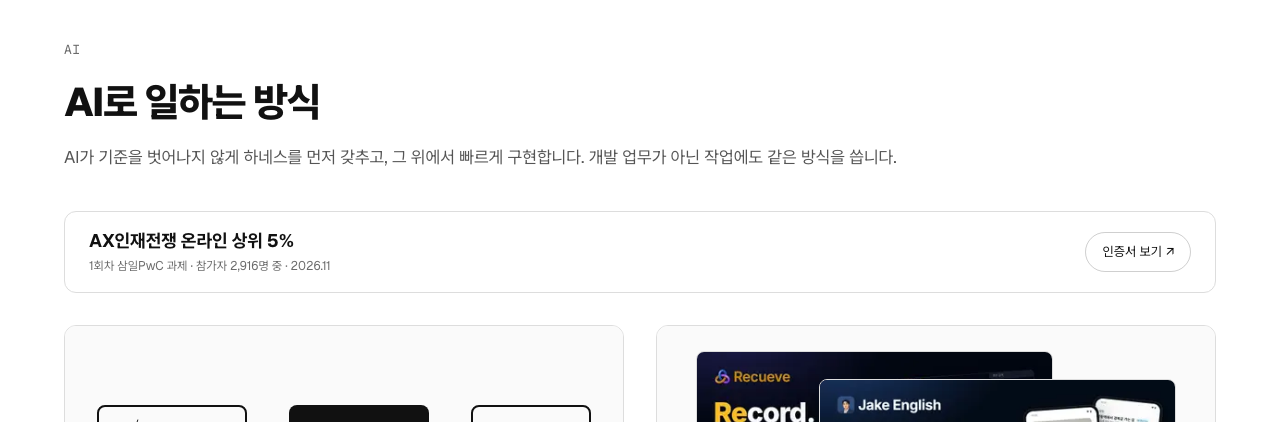
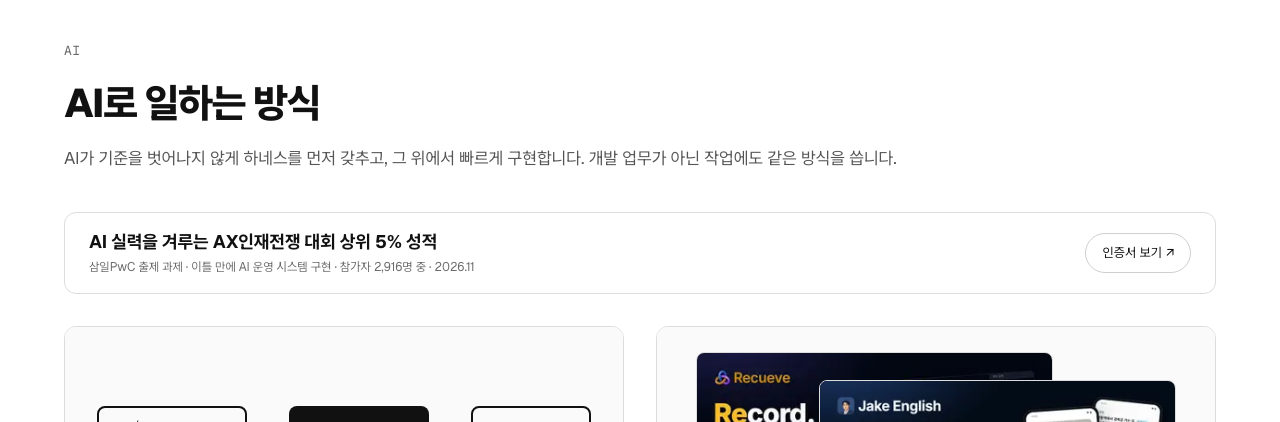
docs: record the new award band wording and title wrapping

diff --git a/docs/devlog/2026-11-23-home-ai-award.md b/docs/devlog/2026-11-23-home-ai-award.md
@@ -2,7 +2,7 @@
 
 ## 한 일
 
-- 홈 "AI로 일하는 방식" 섹션의 소개 문장과 카드 네 장 사이에 띠 한 줄을 넣었습니다. 왼쪽에 "AX인재전쟁 온라인 상위 5%"와 "1회차 삼일PwC 과제 · 참가자 2,916명 중 · 2026.11", 오른쪽에 공개 인증서 페이지로 가는 "인증서 보기" 버튼이 있습니다.
+- 홈 "AI로 일하는 방식" 섹션의 소개 문장과 카드 네 장 사이에 띠 한 줄을 넣었습니다. 왼쪽에 "AI 실력을 겨루는 AX인재전쟁 대회 상위 5% 성적"과 "삼일PwC 출제 과제 · 이틀 만에 AI 운영 시스템 구현 · 참가자 2,916명 중 · 2026.11", 오른쪽에 공개 인증서 페이지로 가는 "인증서 보기" 버튼이 있습니다.
 - AX인재전쟁 온라인은 기업이 낸 실제 과제로 AI 실력을 겨루는 대회입니다. 띠에는 결과 한 줄과 인증서 링크만 실었습니다.
 - 문구와 링크는 사이트 전용 글 `content/site/home.md`의 `sections.ai.award`에 두었습니다. 사실의 출처는 이력서의 대외활동 절과 공개 인증서 페이지입니다.
 - 이력서를 다시 가져와 `/resume`에 자기소개 한 문단과 인증서 안내 한 줄, 대외활동 절이 생겼고, 강의·특강이 수상 앞으로 왔습니다. `content/site/resume-page.md`의 절 목록을 원문 순서에 맞췄습니다.
@@ -21,11 +21,13 @@
 | 5 | 그 말을 본문 대외활동 절의 항목을 띠로 그리라는 뜻으로 읽고, 원문 한 줄을 두 줄로 나눠 그리는 플러그인을 만들었다 | 사용자가 바로잡았다. 본문 중간의 애매한 자리가 아니라 이력서 맨 위에 NEW 뱃지를 달아 구별되게 보여 달라는 뜻이었다 | 플러그인을 되돌리고, 머리와 목차 사이에 홈과 같은 띠와 NEW 뱃지 |
 | 6 | 뱃지는 새 색 없이 `fg` 바탕에 `bg` 글자, 고정폭으로 하자. 인쇄에서는 띠 전체를 빼자. 같은 사실이 본문에 글자로 있다 | 구현하며 정함 | 흑백과 강조색 하나 원칙 그대로 |
 | 7 | 뱃지 색을 비교판으로 보여 줌: 글자색 바탕, 초록(강조색), 금색, 주황. 시안마다 라이트와 다크의 대비를 재서 적고, 새 색이 없는 초록을 추천 | 사용자가 초록을 골랐다 | `accent` 바탕에 `on-accent` 글자. 강조색을 쓰는 곳 목록에 뱃지를 더함 |
+| 8 | (main 세션, 배포 뒤) 첫 줄 "AX인재전쟁 온라인 상위 5%"를 고칠 문구로 대회를 밝히는 안, 한 일을 더하는 안, 문장으로 쓴 안을 보여 줌 | 사용자가 첫 줄만으로는 대회에 참가해 상위 5%에 든 것인지 알기 어렵다고 지적했다. 두 안을 섞되 문장 대신 개조식으로, "AI 실력을 겨루는" 표현과 "상위 5% 성적"을 골랐다 | 첫 줄 "AI 실력을 겨루는 AX인재전쟁 대회 상위 5% 성적", 둘째 줄에 출제 기업, 한 일, 참가자 수, 시기 |
 
 ## 바로잡은 것
 
 - 사용자의 "홈처럼 띠로"를 전하는 과정에서 자리를 잘못 읽어 본문 절에 띠를 구현했다가 되돌렸습니다. 화면 자리를 정하는 말은 페이지의 어느 부분인지(머리, 목차, 본문의 어느 절)를 되물어 확인한 뒤 구현합니다.
 - 뱃지 색 시험이 개발 서버에서는 통과하고 빌드에서는 실패했습니다. 빌드한 CSS가 토큰 값을 `#fff`로 줄여 쓰는데, 시험이 토큰 글자를 여섯 자리로 읽었습니다. 토큰을 입힌 요소의 색과 견주도록 고쳤습니다.
+- 문구를 길게 바꾸자 375에서 제목이 꺾이며 `NEW` 뱃지가 제목 위 줄로 올라갔고, 홈 제목은 "상위 / 5% 성적"으로 끊겼습니다. "뱃지는 제목 왼쪽, 버튼은 제목보다 오른쪽"을 상자 좌표로 본 시험 두 건도 실패했습니다. 뱃지를 글줄 안에 두어 첫 줄 앞에 남기고 제목에 `text-balance`를 줬습니다. 시험은 제목의 첫 줄 조각과 띠의 폭을 기준으로 고쳤습니다.
 - 띠를 넣은 직후 개발 서버가 옛 CSS를 줘서 띠가 테두리 없이 보였습니다. 서빙된 CSS에 새 클래스가 없는 것을 확인하고 `.next/dev`를 지워 다시 띄웠습니다.
 
 ## 검증

diff --git a/docs/02-ia.md b/docs/02-ia.md
@@ -82,7 +82,7 @@
 | 메시지 | AI가 기준을 벗어나지 않게 하네스를 먼저 갖추고, 그 위에서 빠르게 구현합니다. 개발 업무가 아닌 작업에도 같은 방식을 씁니다 |
 | 사실과 출처 | `content/site/ai/`의 사이트 전용 글. "이 사이트" 카드는 이 저장소 |
 | 구성 | 머리 `AI` · 제목 "AI로 일하는 방식" · 소개(메시지와 같음) · 대회 결과 띠 한 줄 · 카드 네 장. 카드마다 버튼은 "자세히 보기"(`/ai#slug`) 하나입니다 |
-| 띠 (2026-11-23) | 소개 문장 아래, 카드 네 장 위에 테두리 띠 하나를 둡니다. 왼쪽 첫 줄 "AX인재전쟁 온라인 상위 5%", 둘째 줄 "1회차 삼일PwC 과제 · 참가자 2,916명 중 · 2026.11", 오른쪽에 테두리 버튼 "인증서 보기"(새 창)입니다. 링크는 로그인 없이 열리는 공개 인증서 페이지 `https://axacademy.ai/axwar/cert/dxN6SEBhEGU6n1JU1brdfPa0`입니다. 기업이 낸 실제 과제로 AI 실력을 겨루는 대회의 결과이고, 사실의 출처는 이력서의 대외활동 절과 이 인증서 페이지입니다. 문구와 링크는 `content/site/home.md`의 `sections.ai.award`에 있습니다. 홈에만 두고 `/ai`에는 싣지 않습니다. 값은 [03-design.md](03-design.md#홈-ai-섹션-띠에서-정한-값)에 있습니다 |
+| 띠 (2026-11-23) | 소개 문장 아래, 카드 네 장 위에 테두리 띠 하나를 둡니다. 왼쪽 첫 줄 "AI 실력을 겨루는 AX인재전쟁 대회 상위 5% 성적", 둘째 줄 "삼일PwC 출제 과제 · 이틀 만에 AI 운영 시스템 구현 · 참가자 2,916명 중 · 2026.11", 오른쪽에 테두리 버튼 "인증서 보기"(새 창)입니다. 링크는 로그인 없이 열리는 공개 인증서 페이지 `https://axacademy.ai/axwar/cert/dxN6SEBhEGU6n1JU1brdfPa0`입니다. 기업이 낸 실제 과제로 AI 실력을 겨루는 대회의 결과이고, 사실의 출처는 이력서의 대외활동 절과 이 인증서 페이지입니다. 문구와 링크는 `content/site/home.md`의 `sections.ai.award`에 있습니다. 홈에만 두고 `/ai`에는 싣지 않습니다. 값은 [03-design.md](03-design.md#홈-ai-섹션-띠에서-정한-값)에 있습니다 |
 | 움직임 | 없음 |
 
 | 카드 | 제목 문장 | 숫자 | 그림 |

diff --git a/docs/03-design.md b/docs/03-design.md
@@ -536,7 +536,7 @@
 |---|---|
 | 뱃지 | 첫 줄 앞, 알약 모양(모서리 완전히 둥글게), 높이 1.25rem, 좌우 여백 0.5rem, 바탕 `accent`, 글자 `on-accent` |
 | 뱃지 글자 | `NEW`, Geist Mono 0.625rem, 굵기 500, 자간 0.04em |
-| 뱃지와 첫 줄 사이 | 0.5rem. 좁아서 한 줄에 들지 않으면 첫 줄이 뱃지 아래로 내려갑니다 |
+| 뱃지와 첫 줄 사이 | 0.5rem. 뱃지는 글줄 안에 있어, 제목이 길어 꺾여도 뱃지는 첫 줄 앞에 남고 제목은 뱃지 바로 뒤에서 이어집니다. 제목은 줄 길이를 고르게 나눠(`text-balance`) 끝 낱말 하나만 다음 줄로 넘어가지 않게 합니다(2026-11-23 문구를 길게 바꾸며 고침) |
 | 간격 | 머리와는 머리의 아래 여백 그대로(모바일 1.5rem, 데스크톱 2.5rem), 목차와 사이도 같은 값 |
 | 인쇄 | 띠 전체를 뺍니다 |
 
